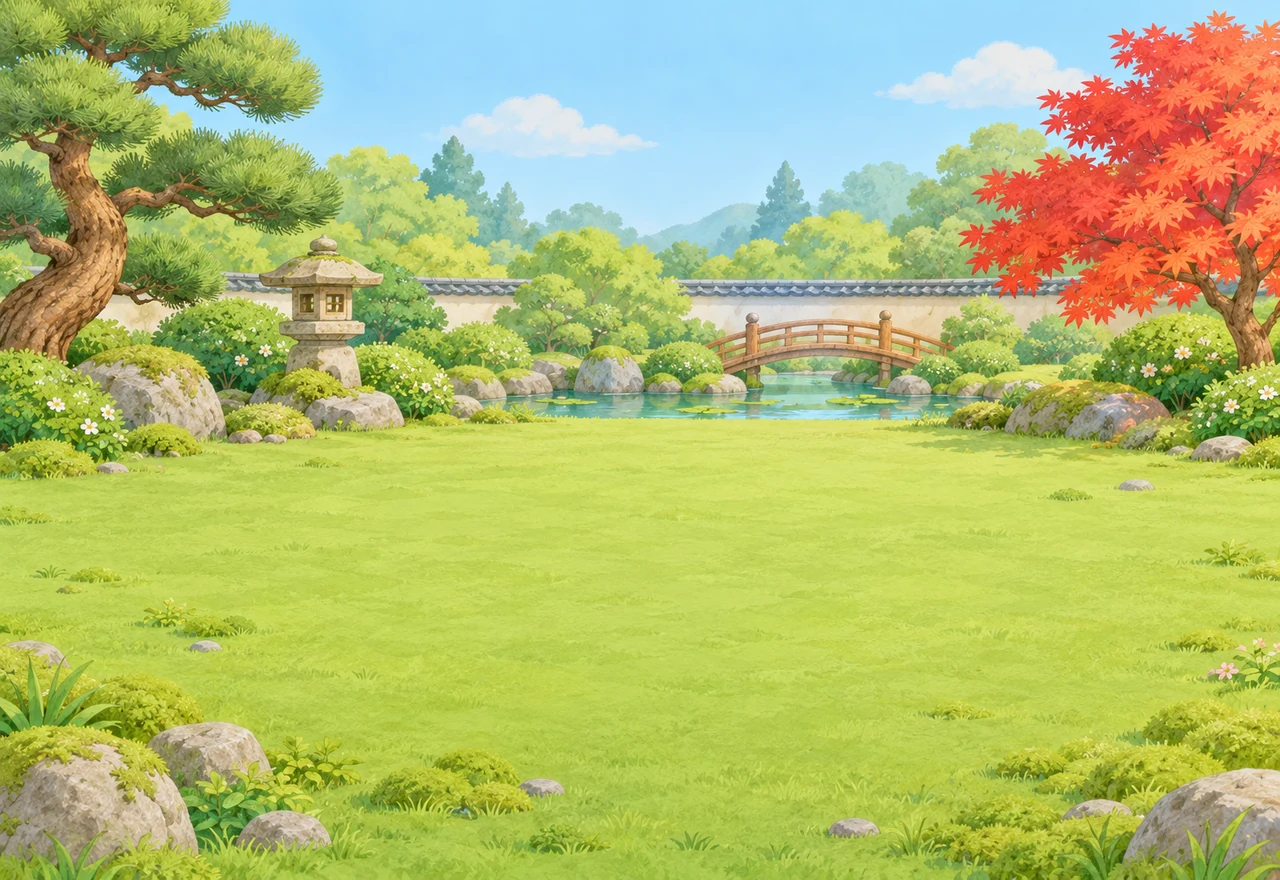
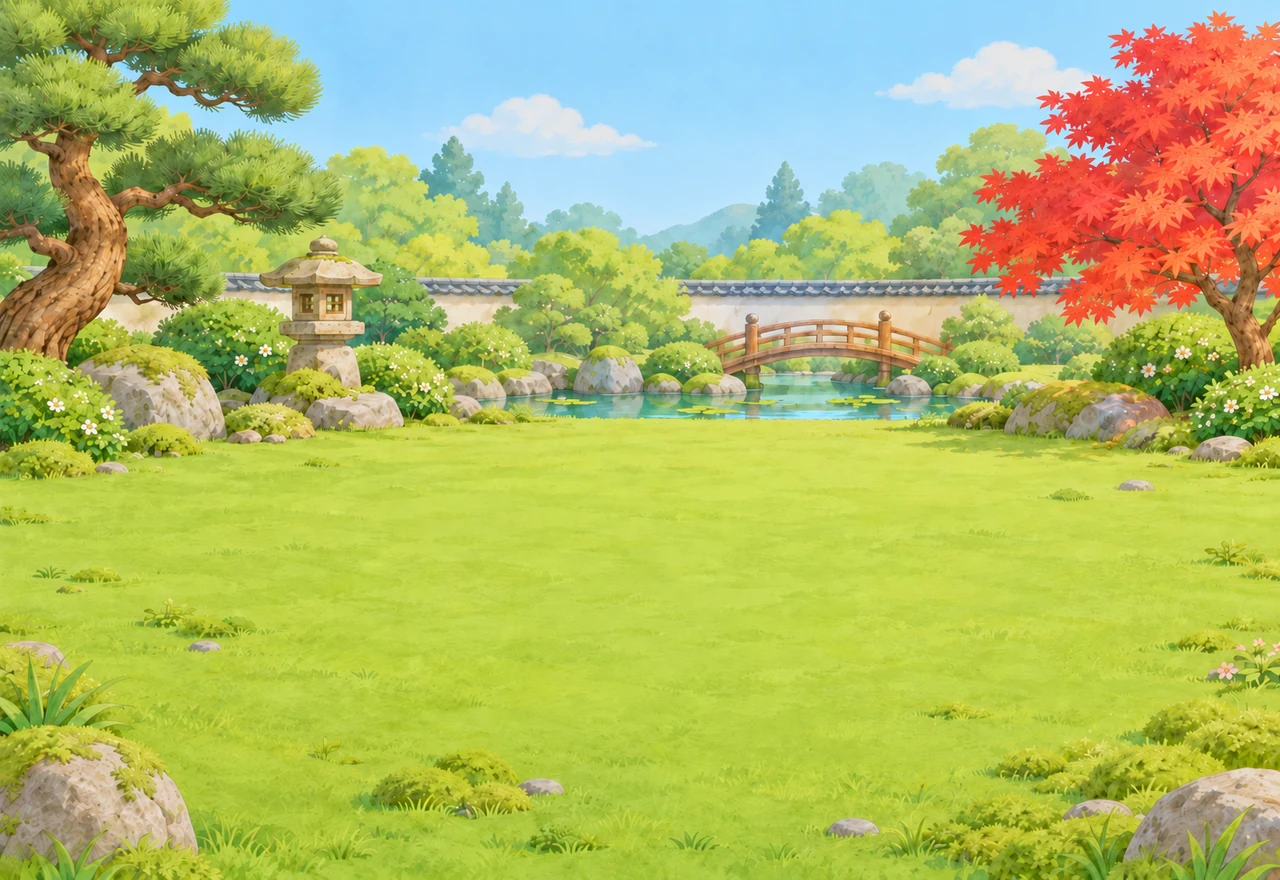
Yard: new garden, prices x10, test button adds 50
- Garden scene re-exported with rocks moved away from the objects
- Item prices: cushion 100, ball 120, box 150, yarn 200, basket 300, tent 500
- Cat gifts unchanged (all under 10 fish)
- Testing tool adds 50 fish

Claude-Session: https://claude.ai/code/session_013iABVFH1USX91W7QqPgou1

diff --git a/index.html b/index.html
@@ -206,7 +206,7 @@
   <section id="test" class="test" hidden>
     <strong>Testing tools</strong> <span class="muted">(only shown when the address ends in ?test)</span>
     <div class="row">
-      <button class="btn plain" data-test="fish">Add 10 fish</button>
+      <button class="btn plain" data-test="fish">Add 50 fish</button>
       <button class="btn plain" data-test="skip">Skip 30 minutes</button>
       <button class="btn plain" data-test="reset">Reset everything</button>
     </div>
@@ -259,12 +259,12 @@
                centre-bottom. The box has no art yet, so its values are a guess. */
   const CAT_WIDTH = 100;        // a cat's image is the full spot width, at its natural size
   const ITEMS = {
-    cushion: { he: 'כָּרִית', tr: 'karit', en: 'cushion', price: 10, pose: 'sleep', cat: { x: 50, y: 82 } },
-    ball:    { he: 'כַּדּוּר', tr: 'kadur', en: 'ball', price: 12, pose: 'lie', wobble: true, cat: { x: 72, y: 95 } },
-    box:     { he: 'קֻפְסָה', tr: 'kufsa', en: 'box', price: 15, pose: 'sit', hasFront: true, cat: { x: 50, y: 80 } },
-    yarn:    { he: 'כַּדּוּר צֶמֶר', tr: 'kadur tsemer', en: 'ball of yarn', price: 20, pose: 'lie', wobble: true, cat: { x: 76, y: 95 } },
-    basket:  { he: 'סַל', tr: 'sal', en: 'basket', price: 30, pose: 'sleep', hasFront: true, cat: { x: 50, y: 60 } },
-    tent:    { he: 'אֹהֶל', tr: 'ohel', en: 'tent', price: 50, pose: 'sit', cat: { x: 50, y: 92 } }
+    cushion: { he: 'כָּרִית', tr: 'karit', en: 'cushion', price: 100, pose: 'sleep', cat: { x: 50, y: 82 } },
+    ball:    { he: 'כַּדּוּר', tr: 'kadur', en: 'ball', price: 120, pose: 'lie', wobble: true, cat: { x: 72, y: 95 } },
+    box:     { he: 'קֻפְסָה', tr: 'kufsa', en: 'box', price: 150, pose: 'sit', hasFront: true, cat: { x: 50, y: 80 } },
+    yarn:    { he: 'כַּדּוּר צֶמֶר', tr: 'kadur tsemer', en: 'ball of yarn', price: 200, pose: 'lie', wobble: true, cat: { x: 76, y: 95 } },
+    basket:  { he: 'סַל', tr: 'sal', en: 'basket', price: 300, pose: 'sleep', hasFront: true, cat: { x: 50, y: 60 } },
+    tent:    { he: 'אֹהֶל', tr: 'ohel', en: 'tent', price: 500, pose: 'sit', cat: { x: 50, y: 92 } }
   };
   const ITEM_ORDER = ['cushion', 'ball', 'box', 'yarn', 'basket', 'tent'];
   const POSE_LABEL = { sit: 'sitting', sleep: 'napping', lie: 'lying' };
@@ -645,7 +645,7 @@
     $('test').addEventListener('click', (e) => {
       const b = e.target.closest('[data-test]');
       if (!b) return;
-      if (b.dataset.test === 'fish') setFish(getFish() + 10);
+      if (b.dataset.test === 'fish') setFish(getFish() + 50);
       if (b.dataset.test === 'skip') {
         const ms = 30 * 60e3;
         if (state.lastCheck != null) state.lastCheck -= ms;
